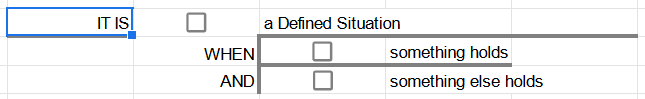
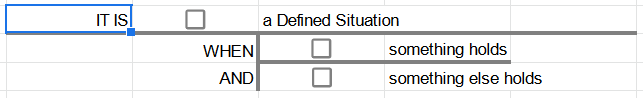
amended README, BabyLegalSSv0.9.1.1, added images

diff --git a/BabyLegalSSv0.9.1.1.js b/BabyLegalSSv0.9.1.1.js
@@ -53,9 +53,8 @@ function onEdit(e) {
   let c = e.range;
   let sheet = SpreadsheetApp.getActiveSheet();
   let h = new History();
-  let patchITIS = false;
   if (goodLayout(c) && !c.isBlank()) {
-    patchITIS = drawWords(c, patchITIS);
+    drawWords(c);
     c = startProcessing(c, h, sheet);
   }
   else if (c.isBlank()) {
@@ -128,6 +127,7 @@ function scanDownwards(c, h) {
 }
 function drawBridgeIfAndOr(h, sheet) {
   // SpreadsheetApp.getUi().alert("drawBridgeIfAndOr");
+  // sheet.getRange(1, 6).setValue("drawBridgeIfAndOr");
   let restart = true;
   let rowBegin = rowStop = numOfRows = 0;
   let buildRange = rangeString = "";
@@ -155,6 +155,9 @@ function drawBridgeIfAndOr(h, sheet) {
           rowBegin = row;
         }
         // Parse code block and draw bridge.
+        // This code section here also redraws AND
+        // and adjusts formatting around buildRange
+        // which includes IF, WHEN, MEANS and IS.
         if (columnNow==col && !restart) {
           rowStop = getFurthest(rowStop, row);
           numOfRows = rowStop - rowBegin + 1;
@@ -174,7 +177,7 @@ function drawBridgeIfAndOr(h, sheet) {
             sheet.getRange(row, col).offset(0,1,1,2)
               .setBorder(true,true,false,false,false,false,
               "grey",SpreadsheetApp.BorderStyle.SOLID_THICK);
-            buildRange.setBorder(false,false,false,true,false,false,
+            buildRange.setBorder(null,false,false,true,false,false,
               "grey",SpreadsheetApp.BorderStyle.SOLID_THICK);
           }
         }
@@ -279,7 +282,7 @@ function goodLayout(c) {
   }
   return true;
 }
-function drawWords(c, patchITIS) {
+function drawWords(c) {
   // Identify keywords for formatting and drawing.
   cValue = c.getValue();
   if (cValue=="IF" || cValue=="WHEN") {
@@ -301,7 +304,6 @@ function drawWords(c, patchITIS) {
     }
   }
   else if (cValue=="IT IS") {
-    patchITIS = true;
     drawTeeForITIS(c);
   }
   else if (cValue=="EVERY" || cValue=="PARTY") {
@@ -313,12 +315,11 @@ function drawWords(c, patchITIS) {
   else if (cValue=="UNLESS") {
     drawUnless(c);
   }
-  return patchITIS;
 }
 function drawIfWhenTop(c) {
-  // Check cell above for checkbox.  
+  // Check cell above for checkbox.
   // If no checkbox, move cValue down
-  // and insert checkbox in original cell.  
+  // and insert checkbox in original cell.
   let topCell = c.offset(-1,0);
   if (topCell.getDataValidation()!=null) {
     if (topCell.getDataValidation().getCriteriaType()
@@ -336,9 +337,6 @@ function drawIfWhenTop(c) {
   }
 }
 function drawIfWhenOr(c) {
-  SpreadsheetApp.getUi().alert("drawIfWhenOr");
-  let sheet = SpreadsheetApp.getActiveSheet();
-  sheet.getRange(1, 6).setValue("drawIfWhenOr");
   if (c.getValue()=="OR") {
     c.offset(0,-1,1,9).clearFormat();
   }
@@ -348,7 +346,6 @@ function drawIfWhenOr(c) {
       .setBorder(false,true,false,false,false,false,
       "grey",SpreadsheetApp.BorderStyle.SOLID_THICK);
   }
-  sheet.getRange(1, 7).setValue("not patched");
   c.setBorder(null,null,null,true,false,false,
     "grey",SpreadsheetApp.BorderStyle.SOLID_THICK);
   if (c.offset(0,2).isBlank()) {
@@ -356,21 +353,18 @@ function drawIfWhenOr(c) {
   }
 }
 function drawAnd(c) {
-  SpreadsheetApp.getUi().alert("drawAnd");
-  let sheet = SpreadsheetApp.getActiveSheet();
-  sheet.getRange(1, 6).setValue("drawAnd");
   c.offset(0,-1,1,9).clearFormat();
   c.setHorizontalAlignment("right");
   if (c.offset(0,1).isBlank()) {
     c.offset(0,1).insertCheckboxes()
       .setBorder(null,true,false, false, false,false,
-      "orange",SpreadsheetApp.BorderStyle.SOLID_THICK);
+      "grey",SpreadsheetApp.BorderStyle.SOLID_THICK);
   }
   c.offset(0,1,1,2)
     .setBorder(true,true,false,false,false,false,
-    "orange",SpreadsheetApp.BorderStyle.SOLID_THICK);
+    "grey",SpreadsheetApp.BorderStyle.SOLID_THICK);
   c.setBorder(null,null,null,true,false,false,
-    "orange",SpreadsheetApp.BorderStyle.SOLID_THICK);
+    "grey",SpreadsheetApp.BorderStyle.SOLID_THICK);
   if (c.offset(0,2).isBlank()) {
     c.offset(0,2).setValue("some condition");
   }
@@ -394,8 +388,6 @@ function drawTeeOverIsMeans(c) {
   c.offset(1,2).setValue("another thing");
 }
 function drawTeeForITIS(c) {
-  let sheet = SpreadsheetApp.getActiveSheet();
-  sheet.getRange(1, 6).setValue("drawTeeForITIS");
   let cValue = c.getValue();
   c.offset(0,-1,3,9).clear();
   c.setValue(cValue).setHorizontalAlignment("right");
@@ -403,10 +395,10 @@ function drawTeeForITIS(c) {
   c.offset(0,2).setValue("a Defined Situation");
   c.offset(1,0,1,5)
     .setBorder(true,false,false,false,false,false,
-    "red",SpreadsheetApp.BorderStyle.SOLID_THICK);
+    "grey",SpreadsheetApp.BorderStyle.SOLID_THICK);
   c.offset(1,1,2,1)
     .setBorder(true,false,false,true,false,false,
-    "red",SpreadsheetApp.BorderStyle.SOLID_THICK);
+    "grey",SpreadsheetApp.BorderStyle.SOLID_THICK);
   c.offset(1,1).setValue("WHEN").setHorizontalAlignment("right");
   c.offset(1,2).insertCheckboxes();
   c.offset(1,3).setValue("something holds");

diff --git a/README.md b/README.md
@@ -83,3 +83,7 @@ Error found
 
 Goals
 - To resolve this error by building a proper Tee.
+
+Result
+- Problem resolved.
+
